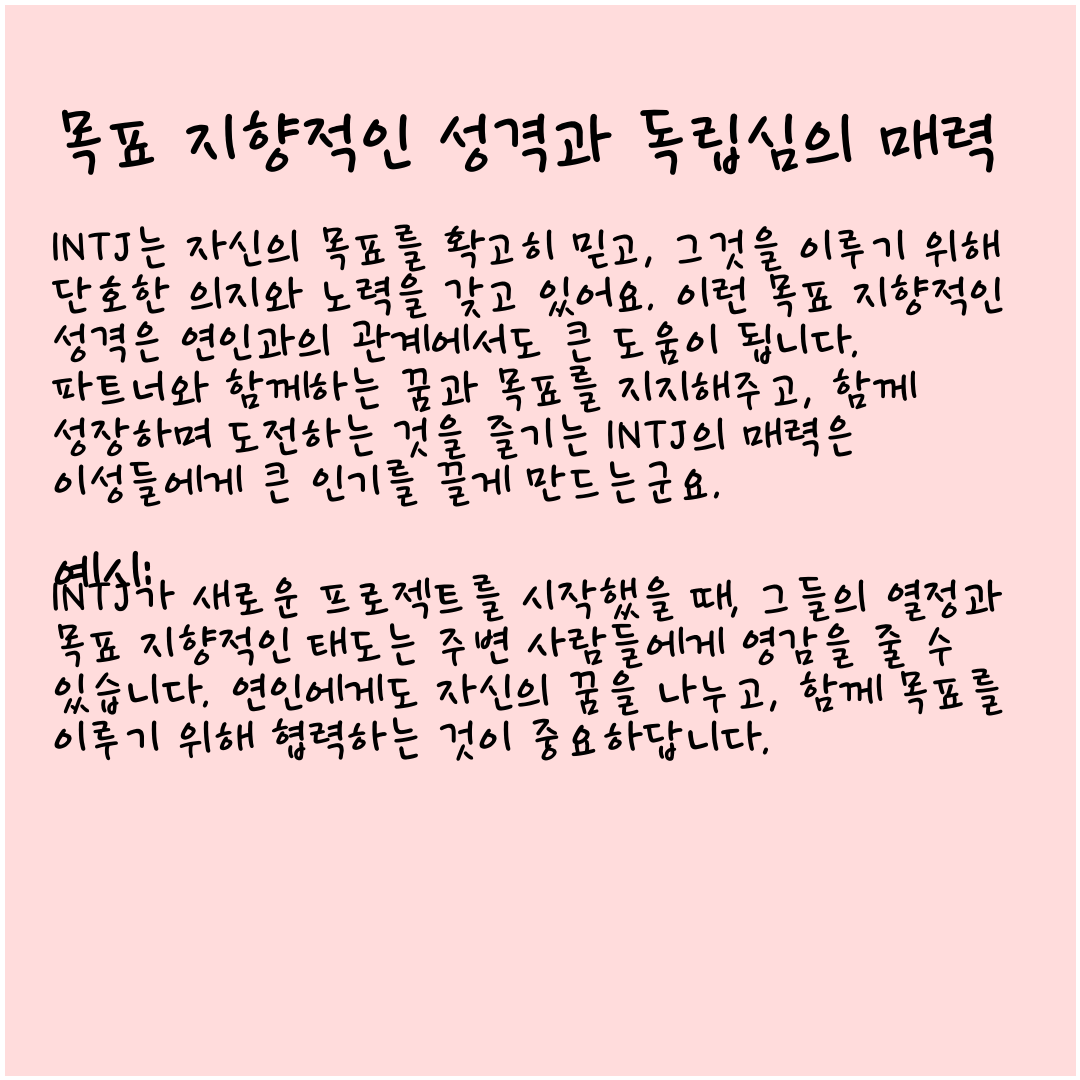
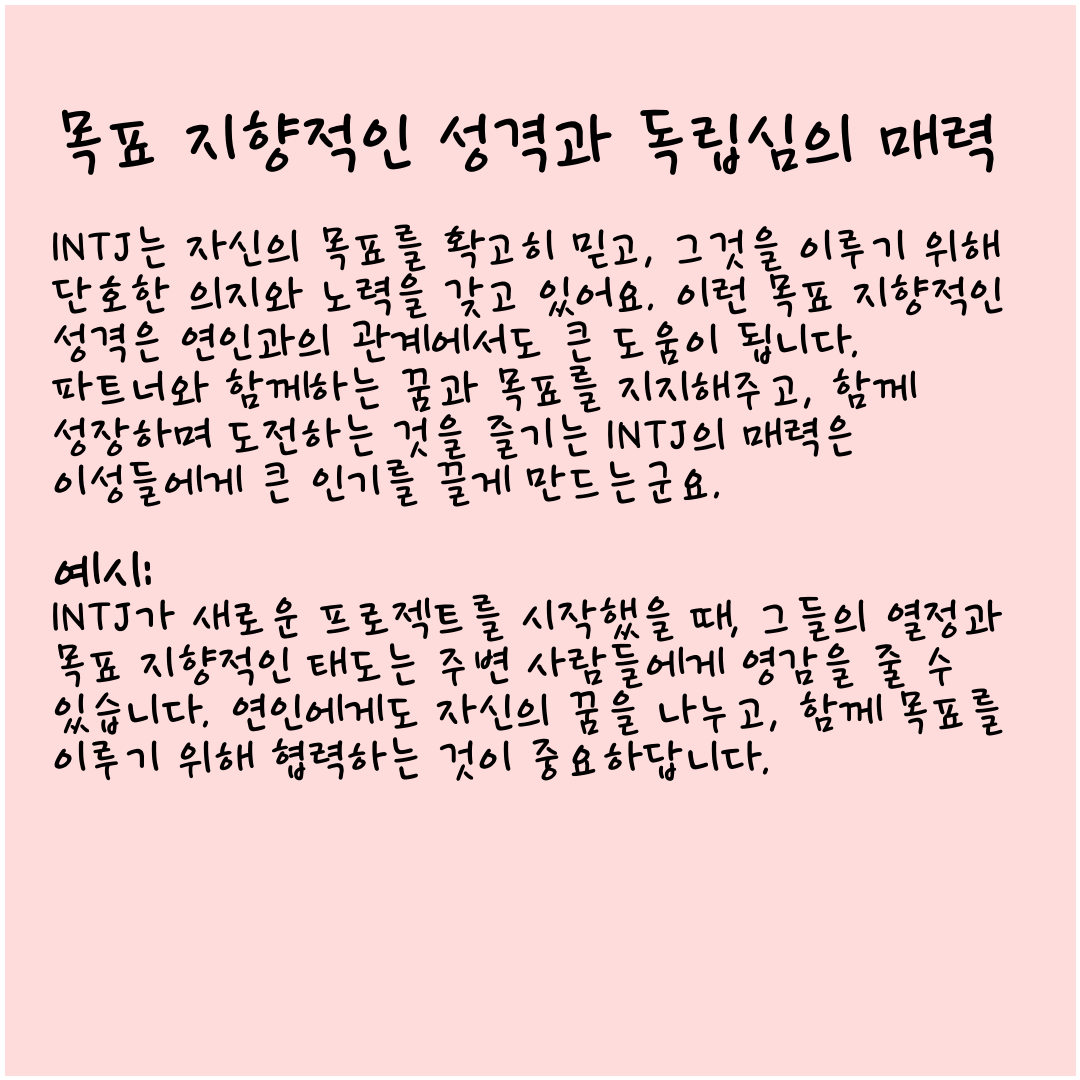
글씨크기대응 줄간격 조절

Changed region(s): [[0.0306, 0.5194, 0.9472, 0.7333]]

diff --git a/generateCardnewsContentImageByContent.py b/generateCardnewsContentImageByContent.py
@@ -5,7 +5,7 @@ from config import BASE_FONT_SIZE, FONT_PATH, IMAGE_SIZE, BACKGROUND_COLOR, TEXT
 from remove_emoji import remove_emoji
 
 def generateCardnewsContentImageByContent(html_content, ImageCount,save_path):
-    
+    print(f"current card content : {html_content}")
     base_font_size = 50
     while True:
         # HTML 파싱
@@ -46,9 +46,10 @@ def generateCardnewsContentImageByContent(html_content, ImageCount,save_path):
         if y_position > image_height:
             # Decrease font size and regenerate the image
             base_font_size = base_font_size-1
+
             print(f"decreasing fontsize... ImageCount : {ImageCount}, current font size : {base_font_size}")
         else:
-            print(f"{ImageCount}.jpg generated, font size : {base_font_size}")
+            print(f"\n{ImageCount}.jpg generated, font size : {base_font_size}")
             break
 
 
@@ -56,28 +57,31 @@ def draw_tag(draw, tag, tag_name, font, y_position, max_text_width):
     """
     Draw text for a specific HTML tag
     """
+
+    y_correction_constant = (font.size/50)
+
     if tag_name == 'h2':
         text = remove_emoji(tag.text)
         wrapped_text = wrap_text(draw, text, font, max_text_width)
         draw.text((50, y_position), wrapped_text, font=font, fill=TEXT_COLOR)
-        y_position += 120 + wrapped_text.count('\n') * 25  # 헤더 다음에 여백 추가
+        y_position += (120 + wrapped_text.count('\n') * 25)*y_correction_constant  # 헤더 다음에 여백 추가
     elif tag_name == 'h3':
         text = remove_emoji(tag.text)
         wrapped_text = wrap_text(draw, text, font, max_text_width)
         draw.text((50, y_position), wrapped_text, font=font, fill=TEXT_COLOR)
-        y_position += 30 + wrapped_text.count('\n') * 25  # 소제목 다음에 여백 추가
+        y_position += (50 + wrapped_text.count('\n') * 25)*y_correction_constant  # 소제목 다음에 여백 추가
     elif tag_name == 'p':
         text = remove_emoji(tag.text)
         wrapped_text = wrap_text(draw, text, font, max_text_width)
         draw.text((50, y_position), wrapped_text, font=font, fill=TEXT_COLOR)
-        y_position += 120 + wrapped_text.count('\n') * 40  # 문단 다음에 여백 추가
+        y_position += (120 + wrapped_text.count('\n') * 40)*y_correction_constant  # 문단 다음에 여백 추가
     elif tag_name == 'ul':
         y_position += 60  # 리스트 전에 여백 추가
         for li_tag in tag.find_all('li'):
             text = '- ' + li_tag.text
             wrapped_text = wrap_text(draw, text, font, max_text_width - 30)  # 간격 고려
             draw.text((80, y_position), wrapped_text, font=font, fill=TEXT_COLOR)
-            y_position += 70 + wrapped_text.count('\n') * 25  # 리스트 아이템 다음에 여백 추가
+            y_position += (70 + wrapped_text.count('\n') * 25)*y_correction_constant  # 리스트 아이템 다음에 여백 추가
 
     return y_position
 
@@ -120,11 +124,17 @@ def get_font_size(tag_name, base_size):
 if __name__ == "__main__":
     # 예제 HTML
     html_content = '''
-    <h2 data-ke-size="size26">마무리하며</h2>\n
-    <p data-ke-size="size16">오늘은 INTJ의 관계적 특징에 대해 알아보았어요. 이들은 엄격한 표현과 높은 기준, 감정적인 소통의 어려움, 독립적인 성향, 그리고 충돌 상황에서의 대처 방식 등에서 독특한 특징을 보입니다. INTJ와의 관계에서 이러한 특징을 이해하고 존중한다면 보다 깊은 연결을 형성할 수 있을 거에요. 🤝</p>\n
-    <p data-ke-size="size16">다음에는 또 다른 MBTI 성격 유형에 대해서 알아보도록 할게요! 😊</p>\n
-    <p data-ke-size="size16">\xa0</p>\n
-    <p data-ke-size="size16">\xa0</p>\n'''
+    <h2 data-ke-size="size26">자유로운 영혼, 하지만 협력도 필요해요! 🤝</h2>
+<p data-ke-size="size16">ISTP는 독립심이 강하고 자유로운 영혼을 가진 사람들이에요. 그들은 자신만의 시간과 공간을 중요시하며, 다른 사람과의 관계에서도 이러한 자유로움을 유지하려고 노력해요. 그러나 협력과 소통이 필요한 순간에는 이들의 유연성과 문제해결 능력이 큰 도움이 될 거예요.</p>
+<h3 data-ke-size="size23">관련 경험담: "함께한 여행, ISTP와의 협력"</h3>
+<p data-ke-size="size16">저는 한 번 ISTP 친구와 여행을 갔었어요. 그때 그는 계획을 철저하게 세우고, 문제가 발생할 때마다 빠르게 해결하는 능력을 보여주었어요. 그의 독립심과 동시에 협력하는 모습을 보면서, 그와 함께하는 것은 얼마나 유익한 경험이었는지를 느낄 수 있었어요.</p>
+<p data-ke-size="size16"> </p>
+<p data-ke-size="size16">이렇게 ISTP의 특징을 알아보았는데요, 여러분도 이들의 독특한 성격과 능력에 놀라우셨나요? ISTP와의 관계에서 이러한 특징들을 고려한다면, 더욱 원활한 소통과 협력이 가능할 거예요. 세상은 다양한 성격으로 가득 차있어서, 서로를 이해하고 존중하는 것이 얼마나 소중한 일인지를 느낄 수 있는 좋은 기회일지도 몰라요! 💫</p>
+<p data-ke-size="size16"> </p>
+<p data-ke-size="size16">그럼 오늘의 이야기도 여기서 마치겠습니다. 다음에도 MBTI 성격 유형에 관한 재미있는 이야기로 찾아뵐게요! 잘 지내세요~ 🌈</p>
+<p data-ke-size="size16"> </p>
+<p data-ke-size="size16">구독과 좋아요를 눌러서 더 많은 MBTI 연애 팁과 이야기를 받아보세요! 그럼 모두 환상적인 연애를 만들어봐요! <span>💖</span><span>💌</span></p>
+<p data-ke-size="size16"> </p>'''
 
     # 이미지 생성 및 저장
     generateCardnewsContentImageByContent(html_content, 'output_image',"/workspaces/CardNewsAutomation")

diff --git a/remove_emoji.py b/remove_emoji.py
@@ -9,8 +9,10 @@ def remove_emoji(input_string):
 
     return string_without_emoji
 
-# 예제 사용
-original_string = "[MBTI] INTJ는 왜 그럴까? 😎"
-string_without_emoji = remove_emoji(original_string)
-print(f"Original String: {original_string}")
-print(f"String without Emoji: {string_without_emoji}")
+
+if __name__ == "__main__":
+    # 예제 사용
+    original_string = "[MBTI] INTJ는 왜 그럴까? 😎"
+    string_without_emoji = remove_emoji(original_string)
+    print(f"Original String: {original_string}")
+    print(f"String without Emoji: {string_without_emoji}")

diff --git a/main.py b/main.py
@@ -15,6 +15,6 @@ def cardnewsautomation(blog_url):
 
 if __name__ == "__main__":
     
-    test_url = "https://giftedmbti.tistory.com/151"
+    test_url = "https://giftedmbti.tistory.com/203"
     cardnewsautomation(test_url)
 

diff --git a/README.md b/README.md
@@ -12,16 +12,18 @@
 #### 3. 설치 방법
 1. 이 GitHub 레포지토리를 클론합니다.
 2. 필요한 Python 라이브러리를 설치합니다.
-   \```
+
+   ```
    pip install -r requirements.txt
-   \```
+   ```
 
 #### 4. 사용 방법
 1. `config.py` 파일에서 필요한 설정을 변경합니다. 예를 들어, 폰트 경로, 이미지 크기 등을 설정할 수 있습니다.
 2. `main.py` 파일을 실행합니다.
-   \```
+
+   ```
    python main.py
-   \```
+   ```
 3. 실행 시 블로그 URL을 입력으로 제공합니다.
 
 #### 5. 코드 구조
